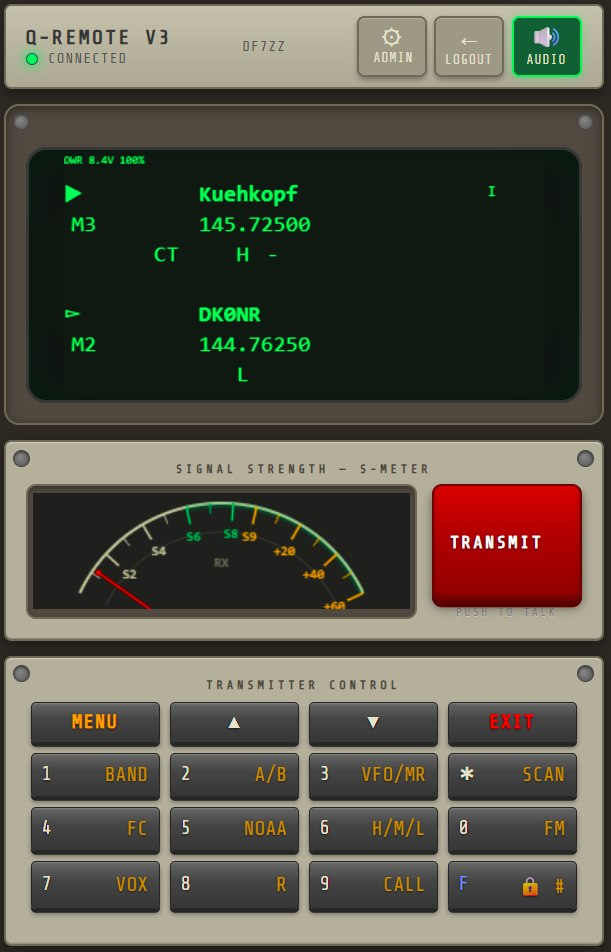
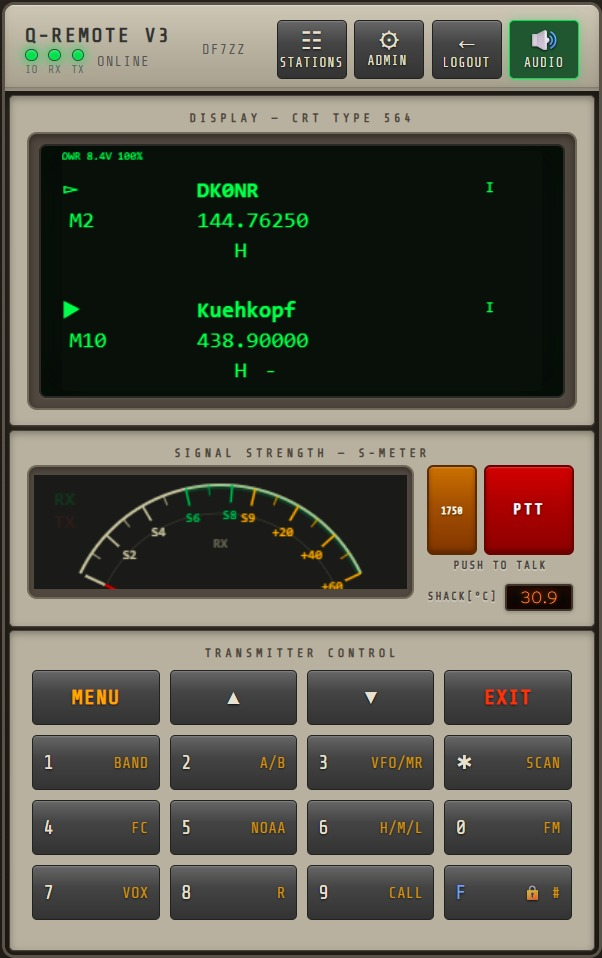
Update README and main UI screenshot.
Replace docs/screenshot.jpg with the current equipment chassis UI and document CRT warm-up, backlit keypad, 1750 Hz tone, and RX squelch features.

diff --git a/README.md b/README.md
@@ -1,10 +1,12 @@
 # Q-Remote V3 🤖📻
 
-Web-based remote control for Quansheng UV-K5 ham radio with QuanshengDock firmware. Access your radio from anywhere through the browser – live display, complete control, GPIO peripherals, and a full channel editor.
+Web-based remote control for Quansheng UV-K5 ham radio with QuanshengDock firmware. Access your radio from anywhere through the browser – live CRT display, complete control, GPIO peripherals, and a full channel editor. The main UI is styled as a vintage equipment chassis with backlit keys and a CRT-style display panel.
 
 > **Special thanks to [Nic Sure](https://github.com/nicsure) for the amazing [QuanshengDock](https://github.com/nicsure/QuanshengDock) project – the firmware, protocol documentation, and C# reference implementation that made Q-Remote V3 possible. Without this foundational work, none of this would exist. 🙏
 
-![Q-Remote V3 Screenshot](docs/screenshot.jpg)
+![Q-Remote V3 – main control panel with CRT display, S-meter, and transmitter keypad](docs/screenshot.jpg)
+
+*Equipment chassis UI: CRT display with phosphor warm-up, analog S-meter, 1750 Hz tone, PTT, and full UV-K5 keypad.*
 
 *Login panel:*
 
@@ -27,14 +29,16 @@ Web-based remote control for Quansheng UV-K5 ham radio with QuanshengDock firmwa
 ### ✅ Working
 
 **Radio Control**
-- **Live CRT Display** – Radio LCD rendered in real-time on HTML5 Canvas with anti-flicker
+- **Live CRT Display** – Radio LCD rendered in real-time on HTML5 Canvas with anti-flicker and phosphor warm-up after login
+- **Equipment Chassis UI** – Retro rack-style control panel with CRT bezel, module bays, and backlit keypad buttons
 - **RX Audio** – Listen to incoming radio audio in your browser (μ-law codec, 8 kHz)
 - **TX Audio** – Transmit through your browser's microphone (μ-law, click-free)
 - **Full Button Control** – 4×4 button grid matching the UV-K5 layout with correct labels
 - **PTT (Push-to-Talk)** – Hold to transmit, with TX lock for multi-user safety
+- **1750 Hz Tone** – One-touch tone burst for repeater access
 - **Analog S-Meter** – Real-time signal strength needle with continuous dBm mapping
 - **Mic Modulation Meter** – dBFS level display during transmit (MOD scale)
-- **Squelch Control** – Adjustable squelch threshold with audio gating (admin panel)
+- **RX Squelch** – Configurable threshold with RSSI/audio gating, hold time, and attack/release envelope (admin panel)
 - **Connection LEDs** – Header indicators for Socket.IO (IO), RX audio, and TX audio WebSockets
 
 **Stations Editor**
